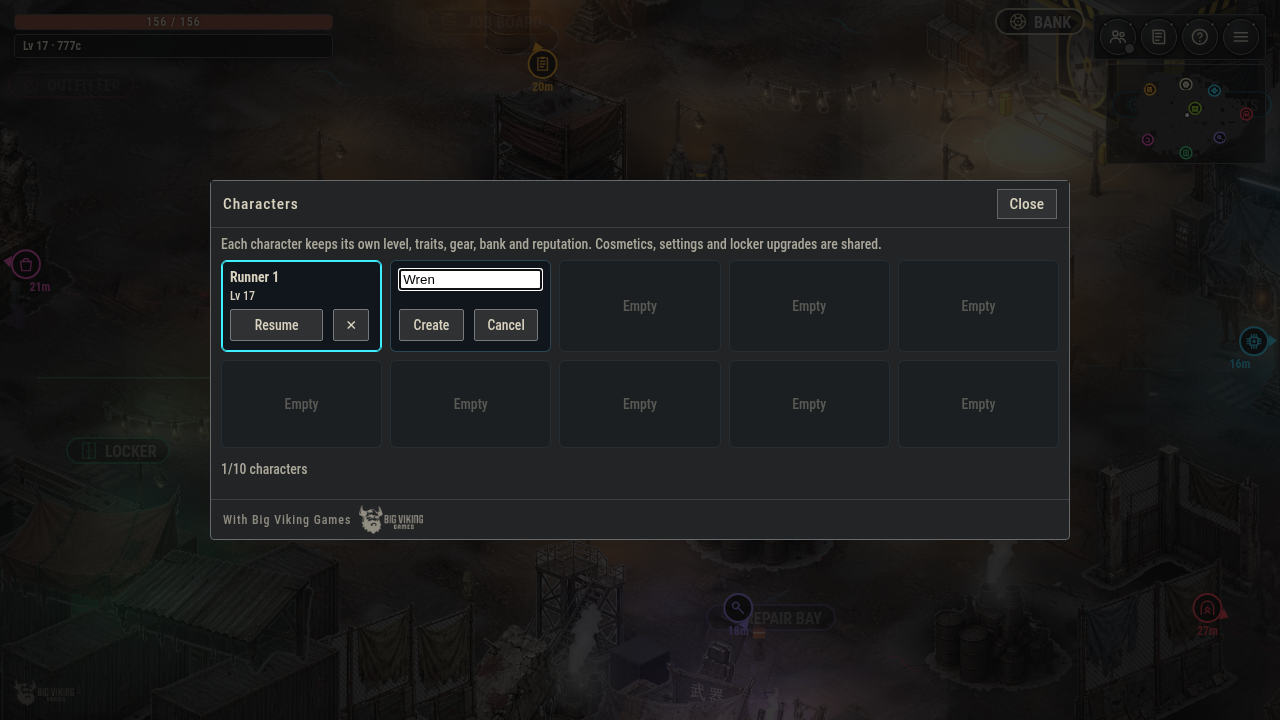
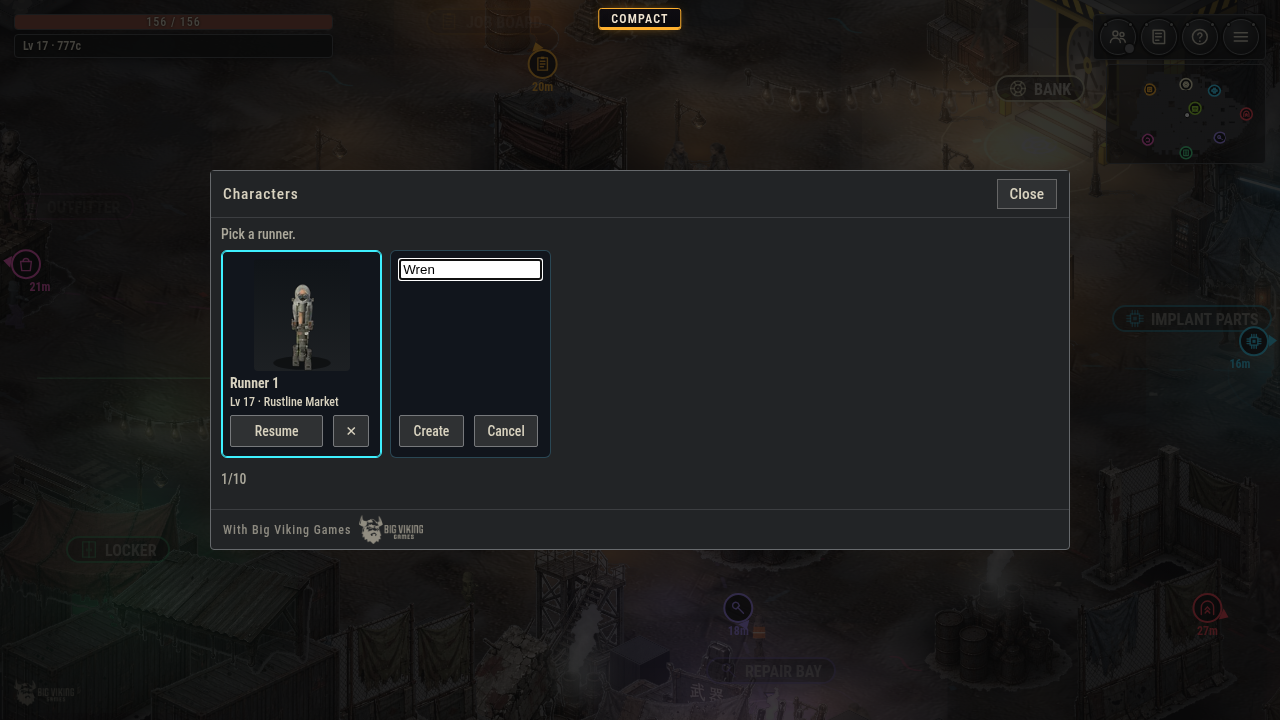
Character select: shown on boot (first-time players go straight to naming), live model previews with name/level/last town, + New, typed-name delete, menu 'Switch character' (town only; selector refuses in a run). tests/charsel.mjs; other tests opt out via wv_nocharsel

diff --git a/src/charselui.ts b/src/charselui.ts
@@ -1,31 +1,46 @@
-// Character select (modal 'chars'). Shown on load when the account has 2+ characters (or ?chars), and from Settings > Gameplay > Characters.
+// Character select (modal 'chars'). Shown on boot (first-time players go straight to naming), from the menu's Switch character (town only) and Settings > Gameplay > Characters.
 // 10 slots, free create, delete with a confirm step. Short labels; full details live in the tooltip (docs/UI.md).
-import { ensureRoster, createChar, selectChar, deleteChar, CHAR_LIMIT } from './chars';
+import { ensureRoster, createChar, selectChar, deleteChar, CHAR_LIMIT, charSave, nameFresh } from './chars';
+import { TOWN_INFO } from './towns';
+import { drawMini } from './wardrobeui';
 import { newSave, persist } from './state';
 import { TRAIT_BY_ID } from './traits';
 import { esc } from './esc';
 type UIx=any;
 export const CS={ confirmDel:'' as string, naming:false, msg:'' };
 const ago=(t:number)=>{ if(!t) return 'never played'; const m=Math.round((Date.now()-t)/60000); return m<1?'just now':m<60?m+' min ago':m<1440?Math.round(m/60)+' h ago':Math.round(m/1440)+' d ago'; };
-export function charsHtml(ui:UIx):string{ const r=ensureRoster(); let h=`<div class="csbody"><p class="mut csintro">Each character keeps its own level, traits, gear, bank and reputation. Cosmetics, settings and locker upgrades are shared.</p><div class="csgrid">`;
+const townName=(id?:string)=>((TOWN_INFO as any)[id&&(TOWN_INFO as any)[id]?id:'rustline']?.name||'Town') as string;
+const fresh=()=>{ const r=ensureRoster(); return r.chars.length===1&&!!r.chars[0].fresh; };
+export function charsHtml(ui:UIx):string{ const r=ensureRoster(); void ui;
+  if(fresh()) return `<div class="csbody csfirst"><p class="csintro">Name your runner. You start at level 1 with stock gear.</p><div class="cscard csnew"><input id="csname" maxlength="16" placeholder="Name" aria-label="Character name" value=""/><span class="csrow"><button class="btn" data-act="cs-create" data-tip="Start playing. Leave blank for Runner 1.">Start</button></span></div></div>`;
+  let h=`<div class="csbody"><p class="mut csintro" data-tip="Each character keeps its own level, traits, gear, bank and reputation. Cosmetics, settings and locker upgrades are shared.">Pick a runner.</p><div class="csgrid">`;
   for(let i=0;i<CHAR_LIMIT;i++){ const c=r.chars[i];
-    if(!c){ h+= i===r.chars.length ? (CS.naming?`<div class="cscard csnew"><input id="csname" maxlength="16" placeholder="Name" aria-label="Character name"/><span class="csrow"><button class="btn" data-act="cs-create">Create</button><button class="btn ghost" data-act="cs-cancel">Cancel</button></span></div>`
-      :`<button class="cscard csempty" data-act="cs-new" data-tip="<b>New character</b><br>Free. Starts with stock gear.">+ New</button>`) : `<div class="cscard csempty dim" aria-hidden="true">Empty</div>`; continue; }
+    if(!c){ if(i!==r.chars.length) continue; h+= CS.naming?`<div class="cscard csnew"><input id="csname" maxlength="16" placeholder="Name" aria-label="Character name"/><span class="csrow"><button class="btn" data-act="cs-create" data-tip="Free. Starts at level 1 with stock gear.">Create</button><button class="btn ghost" data-act="cs-cancel">Cancel</button></span></div>`
+      :`<button class="cscard csempty" data-act="cs-new" data-tip="<b>New character</b><br>Free. Starts at level 1 with stock gear.">+ New</button>`; continue; }
     const t1=c.trait1?TRAIT_BY_ID[c.trait1]:null, t2=c.trait2?TRAIT_BY_ID[c.trait2]:null; const act=c.id===r.active;
-    const tip=`<b>${esc(c.name)}</b><br>Level ${c.level}${t1?`<br>Trait: ${esc(t1.name)}`:''}${t2?`<br>Trait II: ${esc(t2.name)}`:''}<br>Last played ${ago(c.played)}`;
-    h+=`<div class="cscard${act?' on':''}" data-tip="${esc(tip)}"><b class="csn">${esc(c.name)}</b><small>Lv ${c.level}${t1?' · '+esc(t1.short):''}</small>`
-      +(CS.confirmDel===c.id?`<span class="csrow"><button class="btn danger" data-act="cs-delgo" data-id="${c.id}" data-tip="Deletes this character, its gear and bank. Cannot be undone.">Delete</button><button class="btn ghost" data-act="cs-delno">Keep</button></span>`
+    const tip=`<b>${esc(c.name)}</b><br>Level ${c.level} · ${esc(townName(c.town))}${t1?`<br>Trait: ${esc(t1.name)}`:''}${t2?`<br>Trait II: ${esc(t2.name)}`:''}<br>Last played ${ago(c.played)}`;
+    const del=CS.confirmDel===c.id;
+    h+=`<div class="cscard${act?' on':''}" data-tip="${esc(tip)}"><canvas class="csprev" data-id="${c.id}" width="96" height="112" aria-hidden="true"></canvas><b class="csn">${esc(c.name)}</b><small>Lv ${c.level} · ${esc(townName(c.town))}</small>`
+      +(del?`<input id="csdelname" class="csdelin" maxlength="16" placeholder="Type ${esc(c.name)}" aria-label="Type the name to confirm"/><span class="csrow"><button class="btn danger" data-act="cs-delgo" data-id="${c.id}" data-tip="Deletes this character, its gear and bank. Cannot be undone. Shared cosmetics stay.">Delete</button><button class="btn ghost" data-act="cs-delno">Keep</button></span>`
       :`<span class="csrow"><button class="btn" data-act="cs-play" data-id="${c.id}">${act?'Resume':'Play'}</button><button class="btn ghost csdel" data-act="cs-del" data-id="${c.id}" aria-label="Delete ${esc(c.name)}" data-tip="Delete ${esc(c.name)}">✕</button></span>`)+`</div>`; }
-  return h+`</div><p class="mut">${r.chars.length}/${CHAR_LIMIT} characters${CS.msg?' · '+esc(CS.msg):''}</p></div>`; }
+  return h+`</div><p class="mut">${r.chars.length}/${CHAR_LIMIT}${CS.msg?' · '+esc(CS.msg):''}</p></div>`; }
 export function charsClick(ui:UIx,el:HTMLElement,a:string):boolean{ const g=ui.g;
   const go=(id:string)=>{ persist(g.save); const r=selectChar(id); if(r.ok){ (window as any).__wvNoPersist=true; location.reload(); } };
   switch(a){
     case 'cs-new': CS.naming=true; CS.msg=''; ui.render(); setTimeout(()=>(document.getElementById('csname') as HTMLInputElement)?.focus(),0); return true;
     case 'cs-cancel': CS.naming=false; ui.render(); return true;
-    case 'cs-create': { const nm=(document.getElementById('csname') as HTMLInputElement)?.value||''; persist(g.save); const r=createChar(nm,newSave); CS.naming=false; if(!r.ok){ CS.msg=r.why; ui.render(); return true; } go(r.id); return true; }
+    case 'cs-create': { if(fresh()){ nameFresh((document.getElementById('csname') as HTMLInputElement)?.value||''); persist(g.save); ui.close(); return true; } const nm=(document.getElementById('csname') as HTMLInputElement)?.value||''; persist(g.save); const r=createChar(nm,newSave); CS.naming=false; if(!r.ok){ CS.msg=r.why; ui.render(); return true; } go(r.id); return true; }
     case 'cs-play': { const id=el.dataset.id!; if(id===ensureRoster().active){ ui.close(); return true; } go(id); return true; }
-    case 'cs-del': CS.confirmDel=el.dataset.id!; ui.render(); return true;
+    case 'cs-del': CS.confirmDel=el.dataset.id!; CS.msg=''; ui.render(); setTimeout(()=>(document.getElementById('csdelname') as HTMLInputElement)?.focus(),0); return true;
     case 'cs-delno': CS.confirmDel=''; ui.render(); return true;
-    case 'cs-delgo': { const id=el.dataset.id!; const wasActive=id===ensureRoster().active; if(!wasActive) persist(g.save); CS.confirmDel=''; const r=deleteChar(id); if(wasActive&&r.ok){ (window as any).__wvNoPersist=true; location.reload(); return true; } CS.msg='Character deleted.'; ui.render(); return true; }
+    case 'cs-delgo': { const id=el.dataset.id!; { const want=ensureRoster().chars.find(c=>c.id===id)?.name||''; const got=((document.getElementById('csdelname') as HTMLInputElement)?.value||'').trim(); if(got.toLowerCase()!==want.toLowerCase()){ CS.msg='Type the name to delete.'; ui.render(); return true; } } const wasActive=id===ensureRoster().active; if(!wasActive) persist(g.save); CS.confirmDel=''; const r=deleteChar(id); if(wasActive&&r.ok){ (window as any).__wvNoPersist=true; location.reload(); return true; } CS.msg='Character deleted.'; ui.render(); return true; }
   } return false; }
-export function showCharsOnLoad():boolean{ const r=ensureRoster(); let q=false; try{ q=new URLSearchParams(location.search).has('chars'); }catch{} return q||r.chars.length>1; }
+/** Boot: always show the selector (first-time players land in naming). Tests opt out with wv_nocharsel (tests/lib.mjs), keeping the old 2+ rule. */
+export function showCharsOnLoad():boolean{ const r=ensureRoster(); let q=false, off=false; try{ q=new URLSearchParams(location.search).has('chars'); off=!!localStorage.getItem('wv_nocharsel'); }catch{} return q||(off?r.chars.length>1:true); }
+/** Live previews: every canvas.csprev shows that character's own body and worn cosmetics, idling and slowly turning. One rAF at ~15 fps. */
+let prevRaf=0;
+export function charsAfter(_ui:UIx){ cancelAnimationFrame(prevRaf); const cvs=Array.from(document.querySelectorAll('#modal canvas.csprev')) as HTMLCanvasElement[]; if(!cvs.length) return;
+  const saves=new Map(cvs.map(cv=>[cv.dataset.id!, charSave(cv.dataset.id!)])); const t0=performance.now(); let last=-1;
+  const frame=()=>{ if(!cvs.some(c=>c.isConnected)) return; prevRaf=requestAnimationFrame(frame); const now=performance.now(); if(now-last<66) return; last=now; const t=(now-t0)/1000;
+    for(const cv of cvs){ const s=saves.get(cv.dataset.id!); drawMini(cv,s,t); } };
+  frame(); }

diff --git a/src/ui.ts b/src/ui.ts
@@ -47,7 +47,7 @@ import { travelHtml, guildHtml, townClick, TV, showVista } from './townui';
 import { bankHtml, bankClick, bankInput, BK } from './bankui';
 import { wardrobeHtml, wardrobeClick, wardrobeAfter, storePreviewsAfter } from './wardrobeui';
 import { storeHtml, storeClick } from './storeui';
-import { charsHtml, charsClick } from './charselui';
+import { charsHtml, charsClick, charsAfter } from './charselui';
 import { mailHtml, mailClick } from './mailui';
 import { traitsHtml, traitsClick, fixerTraitBlock, traitCheckpoint } from './traitui';
 import { storagePromptHtml } from './store';
@@ -151,7 +151,7 @@ export class UI {
   hideBanner(){ $('banner').classList.remove('show'); }
   showDialog(d:{title:string;body:string;options:{label:string;cb?:()=>void}[]}){ const el=$('dialog'); el.style.display='block'; el.innerHTML=`<h4>${esc(d.title)}</h4><div>${esc(d.body)}</div>`; d.options.forEach(o=>{ const b=document.createElement('button'); b.textContent=o.label; b.onclick=()=>{ el.style.display='none'; o.cb?.(); }; el.appendChild(b); }); }
   showDown(p:{broke:string|null;defib:boolean}){ const el=$('downpanel'); el.style.display='block'; el.innerHTML=`<b>DOWN</b><div class="mut" style="margin:6px 0">${p.broke?'Hardware damaged: <b>'+esc(p.broke)+'</b> (benefits and ability offline until a checkpoint).':'No hardware could be damaged.'} Repair bill: ${this.g.save.repairBill}c</div><button data-act="leave">Abandon instance and return to town now</button><button data-act="cp">Return to checkpoint (restores hardware, keeps repair bill)</button>${p.defib?'<button data-act="defib">Self-defib here (hardware stays broken)</button>':''}<div class="mut" style="margin-top:4px">Or press ${key('town')}: emergency exit (8 s).</div>`; }
-  open(m:string|null){ if(m==='vendor'||m==='fixer'||m==='contacts') void loadNpcUi(); if(m==='settings'&&this.modal!=='settings') settingsReset(); if(m==='locker'||m==='wardrobe'||m==='bank'||m==='travel'||m==='guild'||m==='vendor'||m==='gate'||m==='fixer'||m==='store'||m==='contacts'||m==='story'||m==='traits'||m==='mail'||m==='news'){ if(this.g.mode!=='town'){ return; } } if(m==='story'&&!journalOf(this.g.save).length) return; if(m==='locker'&&!this.draft) this.resetDraft(); if(m==='bank') BK.msg=''; if(m==='travel'||m==='guild') TV.msg=''; this.modal=m; this.clearConfirm(); this.render(); }
+  open(m:string|null){ if(m==='vendor'||m==='fixer'||m==='contacts') void loadNpcUi(); if(m==='settings'&&this.modal!=='settings') settingsReset(); if(m==='locker'||m==='wardrobe'||m==='bank'||m==='travel'||m==='guild'||m==='vendor'||m==='gate'||m==='fixer'||m==='store'||m==='contacts'||m==='story'||m==='traits'||m==='mail'||m==='news'||m==='chars'){ if(this.g.mode!=='town'){ return; } } if(m==='story'&&!journalOf(this.g.save).length) return; if(m==='locker'&&!this.draft) this.resetDraft(); if(m==='bank') BK.msg=''; if(m==='travel'||m==='guild') TV.msg=''; this.modal=m; this.clearConfirm(); this.render(); }
   /** Keeps every modal inside the VISIBLE viewport (visualViewport: browser zoom / on-screen keyboard) and shows the floating close button whenever the header's Close is not fully on screen. */
   fitModal(){ const vv=window.visualViewport, root=document.documentElement; const h=vv?vv.height:innerHeight; root.style.setProperty('--vvh',h+'px'); root.style.setProperty('--vvw',(vv?vv.width:innerWidth)+'px'); root.style.setProperty('--vvt',(vv?vv.offsetTop:0)+'px'); root.style.setProperty('--vvl',(vv?vv.offsetLeft:0)+'px');
     const x=document.getElementById('modalx'), b=document.querySelector<HTMLElement>('#modal .win>header [data-act=close]'); if(!x) return; const r=b?.getBoundingClientRect(); const vw=vv?vv.width:innerWidth; const off=!r||r.top<(vv?vv.offsetTop:0)-.5||r.left<-.5||r.bottom>h+(vv?vv.offsetTop:0)+.5||r.right>vw+(vv?vv.offsetLeft:0)+.5||r.width<2; x.classList.toggle('on',off); }
@@ -286,7 +286,7 @@ export class UI {
   render(){ const fk=this.modal==='locker'?this.focusKey():''; const m=$('modal'); if(!this.modal){ m.style.display='none'; m.innerHTML=''; return; } m.style.display='flex'; m.classList.toggle('helpmodal',this.modal==='help'); const g=this.g; this.recompute();
     const body=this.modal==='codex'?codexHtml(g.save):this.modal==='travel'?travelHtml(this):this.modal==='guild'?guildHtml(this):this.modal==='bank'?bankHtml(this):this.modal==='wardrobe'?wardrobeHtml(this):this.modal==='locker'?this.locker():this.modal==='vendor'?this.vendor():this.modal==='gate'?this.gate():this.modal==='fixer'?this.fixer():this.modal==='contacts'?this.contacts():this.modal==='store'?this.store():this.modal==='settings'?this.settings():this.modal==='dev'?this.dev():this.modal==='help'?helpHtml():this.modal==='summary'?this.summary():this.modal==='story'?this.storyPanel():this.modal==='build'?buildHtml(this):this.modal==='lootlog'?lootLogHtml(this):this.modal==='chars'?charsHtml(this):this.modal==='traits'?traitsHtml(this):this.modal==='mail'?mailHtml(this):this.modal==='speech'?(NPCUI?NPCUI.speechHtml(this):''):this.modal==='news'?CITYUI.html(this):'';
     const titles:Record<string,string>={lootlog:'Loot log',travel:'Reach Line: travel',guild:'Guild Counter: reclaimed chips',codex:'Abilities codex',bank:'Bank: storage & credits vault',wardrobe:'Dressing room',locker:'Body workspace & locker',vendor:'Vendor & repair',gate:'Dungeon select',contacts:'Contacts & contracts',fixer:'Fixer: Odalys Vane',store:'Outfitter (simulated purchases)',settings:'Settings',help:'Controls',dev:'DEV tools (prototype only)',summary:'Run summary',story:'Story: Odalys Vane',build:'Build inspector',chars:'Characters',traits:'Specialize',mail:'Mail: send to your characters',speech:'Talk',news:'City news'};
-    m.innerHTML=`<div class="win${this.modal==='settings'||this.modal==='help'?' settingswin helpwin':''}${this.modal==='locker'?' lockerwin':''}${this.modal==='story'?' storywin':''}${this.modal==='build'?' buildwin':''}${this.modal==='chars'?' charswin':''}${this.modal==='traits'?' traitswin':''}" role="dialog" aria-modal="true" aria-label="${titles[this.modal]||''}"><header><span>${titles[this.modal]||''}</span><span><button data-act="close">Close</button></span></header><div class="body">${body}</div><footer class="bvgf">${BVG}</footer></div><button id="modalx" type="button" data-act="close" aria-label="Close window" title="Close (Esc)">✕</button>`; void g; this.fitModal(); if(this.modal==='settings') settingsAfterRender(this); this.decorateTiles(); this.decorateChips(); this.bindTips(); this.bindChipDnD(); this.fitText(); if(this.modal==='wardrobe') wardrobeAfter(this); if(this.modal==='store') storePreviewsAfter(this); if(this.modal==='locker'){ this.bindSwapDnD(); this.afterLocker(fk); } if(this.modal==='story') this.storyAfter(); }
+    m.innerHTML=`<div class="win${this.modal==='settings'||this.modal==='help'?' settingswin helpwin':''}${this.modal==='locker'?' lockerwin':''}${this.modal==='story'?' storywin':''}${this.modal==='build'?' buildwin':''}${this.modal==='chars'?' charswin':''}${this.modal==='traits'?' traitswin':''}" role="dialog" aria-modal="true" aria-label="${titles[this.modal]||''}"><header><span>${titles[this.modal]||''}</span><span><button data-act="close">Close</button></span></header><div class="body">${body}</div><footer class="bvgf">${BVG}</footer></div><button id="modalx" type="button" data-act="close" aria-label="Close window" title="Close (Esc)">✕</button>`; void g; this.fitModal(); if(this.modal==='settings') settingsAfterRender(this); this.decorateTiles(); this.decorateChips(); this.bindTips(); this.bindChipDnD(); this.fitText(); if(this.modal==='wardrobe') wardrobeAfter(this); if(this.modal==='store') storePreviewsAfter(this); if(this.modal==='chars') charsAfter(this); if(this.modal==='locker'){ this.bindSwapDnD(); this.afterLocker(fk); } if(this.modal==='story') this.storyAfter(); }
   decorateTiles(){ document.querySelectorAll<HTMLElement>('#modal [data-def]').forEach(b=>{ const ic=b.querySelector('.ticon'); if(!ic||!b.dataset.def) return; markRarity(b,ITEM_BY_ID[b.dataset.def]?.rarity); try{ const sp=specOf({id:0,kind:'item',inst:{def:b.dataset.def},amount:1}); const src=iconCanvas(sp); const cv=document.createElement('canvas'); cv.width=src.width; cv.height=src.height; cv.getContext('2d')!.drawImage(src,0,0); ic.appendChild(cv); }catch{} }); }
   decorateChips(){ document.querySelectorAll<HTMLElement>('#modal [data-chip]').forEach(b=>{ const ic=b.querySelector('.ticon'); const id=b.dataset.chip; if(!ic||!id||!(CHIPS as any)[id]) return; markRarity(b,CHIPS[id as ChipId].rarity); try{ const src=iconCanvas(specOf({id:0,kind:'chip',chip:id,amount:1})); const cv=document.createElement('canvas'); cv.width=src.width; cv.height=src.height; cv.getContext('2d')!.drawImage(src,0,0); ic.appendChild(cv); }catch{} }); }
   /** hover (mouse) or long-press (touch) tooltips for any element carrying data-tip html */

diff --git a/src/chars.ts b/src/chars.ts
@@ -7,7 +7,7 @@ export const CHAR_LIMIT=10;
 export const ROSTER_KEY='wv_roster_v1';
 export const LEGACY_KEY='arpg-proto-save-v1';
 export const CHAR_KEY=(id:string)=>'wv_char_'+id;
-export interface CharSummary { id:string; name:string; level:number; created:number; played:number; trait1?:string|null; trait2?:string|null }
+export interface CharSummary { id:string; name:string; level:number; created:number; played:number; trait1?:string|null; trait2?:string|null; /** last town id (src/towns.ts) */ town?:string; /** auto-made on a first boot with no save: the selector opens straight into naming it */ fresh?:boolean }
 export interface Account { settings?:any; purchases?:{ lockerBlocks:number; skins:string[] }; store?:any; cosOwned?:Record<string,number>; cosSeen?:Record<string,number>; cosOutfits?:any[]; /** account mailbox (src/mail.ts) */ mail?:any[] }
 export interface Roster { v:1; active:string; chars:CharSummary[]; account:Account; nextN:number }
 type KV={ get(k:string):string|null; set(k:string,v:string):void; del(k:string):void };
@@ -20,7 +20,7 @@ export function ensureRoster(kv:KV=lsKV):Roster{ let r=readRoster(kv); if(r&&r.c
   const id=newId(); const legacy=kv.get(LEGACY_KEY); let level=1; let acct:Account={};
   { const nm=kv.get('wv_name'); if(nm) kv.set('wv_name_'+id,nm); }
   if(legacy){ kv.set(CHAR_KEY(id),legacy); try{ const s=JSON.parse(legacy); level=s.level||1; acct=extractAccount(s); }catch{} }
-  r={ v:1, active:id, chars:[{ id, name:'Runner 1', level, created:Date.now(), played:Date.now() }], account:acct, nextN:2 }; writeRoster(r,kv); return r; }
+  r={ v:1, active:id, chars:[{ id, name:'Runner 1', level, created:Date.now(), played:Date.now(), ...(legacy?{}:{ fresh:true }) }], account:acct, nextN:2 }; writeRoster(r,kv); return r; }
 export function extractAccount(s:any):Account{ return { settings:s.settings, purchases:s.purchases?{ lockerBlocks:s.purchases.lockerBlocks||0, skins:[...(s.purchases.skins||[])] }:undefined, store:s.store, cosOwned:s.cosmetics?.owned, cosSeen:s.cosmetics?.seen, cosOutfits:s.cosmetics?.outfits }; }
 /** Overlay account-wide data onto a character save (load path). Purchases are merged (max / union) so nothing bought is ever lost. */
 export function applyAccount(s:any,a:Account){ if(!a) return s; if(a.settings) s.settings={ ...s.settings, ...a.settings };
@@ -31,7 +31,7 @@ export function applyAccount(s:any,a:Account){ if(!a) return s; if(a.settings) s
 /** Read the active character's raw save JSON (falls back to the legacy mirror). */
 export function activeRaw(kv:KV=lsKV):string|null{ const r=ensureRoster(kv); return kv.get(LEGACY_KEY)??kv.get(CHAR_KEY(r.active)); }
 /** Persist path: character data to its own key + legacy mirror; account fields + summary to the roster. */
-export function saveActive(json:string,s:any,kv:KV=lsKV){ const r=ensureRoster(kv); kv.set(CHAR_KEY(r.active),json); kv.set(LEGACY_KEY,json); r.account={ ...r.account, ...extractAccount(s) }; const c=r.chars.find(x=>x.id===r.active); if(c){ c.level=s.level||1; c.played=Date.now(); c.trait1=s.traits?.l10?.id??null; c.trait2=s.traits?.l20?.id??null; } writeRoster(r,kv); }
+export function saveActive(json:string,s:any,kv:KV=lsKV){ const r=ensureRoster(kv); kv.set(CHAR_KEY(r.active),json); kv.set(LEGACY_KEY,json); r.account={ ...r.account, ...extractAccount(s) }; const c=r.chars.find(x=>x.id===r.active); if(c){ c.level=s.level||1; c.played=Date.now(); c.trait1=s.traits?.l10?.id??null; c.trait2=s.traits?.l20?.id??null; c.town=s.town; } writeRoster(r,kv); }
 export type CharResult={ ok:true; id:string }|{ ok:false; why:string };
 /** Free character creation, capped at CHAR_LIMIT. The new save is built by the caller's factory (state.newSave) so it gets the stock loadout. */
 export function createChar(name:string,make:()=>any,kv:KV=lsKV):CharResult{ const r=ensureRoster(kv); if(r.chars.length>=CHAR_LIMIT) return { ok:false, why:`Character limit reached (${CHAR_LIMIT}). Delete one to make room.` };
@@ -45,6 +45,9 @@ export function deleteChar(id:string,kv:KV=lsKV):CharResult{ const r=ensureRoste
   if(!r.chars.length){ kv.del(LEGACY_KEY); kv.del(ROSTER_KEY); const r2=ensureRoster(kv); r2.account=r.account; writeRoster(r2,kv); return { ok:true, id:r2.active }; }
   if(r.active===id){ writeRoster(r,kv); return selectChar(r.chars[0].id,kv); } writeRoster(r,kv); return { ok:true, id:r.active }; }
 /** Raw save of any character (transfers / selector previews). */
+export function charSave(id:string,kv:KV=lsKV):any{ try{ return JSON.parse(kv.get(CHAR_KEY(id))||'null'); }catch{ return null; } }
+/** Name the auto-made first character (first-time player creation). */
+export function nameFresh(name:string,kv:KV=lsKV):boolean{ const r=ensureRoster(kv); const c=r.chars.find(x=>x.id===r.active); if(!c?.fresh) return false; const nm=(name||'').replace(/[<>"&]/g,'').trim().slice(0,16); if(nm) c.name=nm; delete c.fresh; writeRoster(r,kv); return true; }
 /** Multiplayer identity is per character: party display name defaults to the character name; a custom party name is remembered per character. */
 export const partyName=(kv:KV=lsKV)=>{ try{ const r=ensureRoster(kv); return kv.get('wv_name_'+r.active)||(r.chars[0]?.id===r.active?kv.get('wv_name'):null)||r.chars.find(c=>c.id===r.active)?.name||'Guest'; }catch{ return 'Guest'; } };
 export const setPartyName=(n:string,kv:KV=lsKV)=>{ const r=ensureRoster(kv); kv.set('wv_name_'+r.active,n); };

diff --git a/src/wardrobeui.ts b/src/wardrobeui.ts
@@ -241,6 +241,19 @@ export function storePreviewsAfter(ui: UIx) {
     miniRaf = requestAnimationFrame(frame); };
   frame();
 }
+/** One character mini preview (character select): own save's body + worn look. Same renderer as the Outfitter minis. */
+export function drawMini(cv: HTMLCanvasElement, s: any, t: number) {
+  const rend = (window as any).__rend; if (rend?.anim && animSrc !== rend.anim.loaded) { anim = new PlayerAnimator(rend.anim.loaded); animSrc = rend.anim.loaded; }
+  const ctx = cv.getContext('2d')!, W = cv.width, H = cv.height, fx = W / 2, fy = H - 8, u = H / 70;
+  const bg = ctx.createLinearGradient(0, 0, 0, H); bg.addColorStop(0, '#101418'); bg.addColorStop(1, '#1d2023'); ctx.fillStyle = bg; ctx.fillRect(0, 0, W, H);
+  ctx.fillStyle = 'rgba(0,0,0,.45)'; ctx.beginPath(); ctx.ellipse(fx, fy, W * .3, W * .07, 0, 0, 7); ctx.fill(); if (!s) return;
+  const look = wornLook(s), list = COS_SLOTS.map(sl => look[sl] ? COS_BY_ID[look[sl]!] : null).filter(Boolean) as CosDef[];
+  const dir = (Math.floor(t / 1.6) % 8) as Dir8, k = { c: ctx, x: fx, y: fy, u, t, moving: false, face: FACE[dir], id: 'cs', noModel: !anim };
+  drawCosmetics(k, list, 'back'); let drew = false;
+  if (anim) { try { anim.setBody(applyCosmeticVariants(bodyOf({ ...s, cosmetics: { owned: {}, equipped: {} } } as any, null), { cosmetics: { owned: Object.fromEntries(list.map(x => [x.id, 1])), equipped: look } } as any), list.map(x => x.id)); anim.anim = 'idle'; anim.t = t; anim.dir = dir; drew = anim.draw(ctx, fx, fy, u); } catch { drew = false; } }
+  if (!drew) { ctx.fillStyle = '#5c5f5a'; ctx.beginPath(); ctx.ellipse(fx, fy - 28 * u, 8.5 * u, 10 * u, 0, 0, 7); ctx.fill(); ctx.fillStyle = '#b8a48c'; ctx.beginPath(); ctx.ellipse(fx, fy - 41 * u, 5.2 * u, 5.8 * u, 0, 0, 7); ctx.fill(); }
+  drawCosmetics(k, list, 'front');
+}
 /** test / console hook */
 if (typeof window !== 'undefined') (window as any).__dr = { WD, previewLook: () => previewLook((window as any).__game.save), wornLook: () => wornLook((window as any).__game.save), diff: () => lookDiff((window as any).__game.save), activeOrder };
 const reducedFx = () => document.body.classList.contains('reducefx');

diff --git a/src/settingsui.ts b/src/settingsui.ts
@@ -78,7 +78,7 @@ export function settingsHtml(ui:UIx):string{
   else if(tab==='story') c=storyHtml(ui);
   else c=aboutHtml(ui);
   const tabs=TABS.map(([id,n])=>`<button type="button" class="stab${id===tab?' on':''}" role="tab" id="stab-${id}" aria-selected="${id===tab}" aria-controls="spanel" tabindex="${id===tab?0:-1}" data-act="s-tab" data-tab="${id}">${esc(n)}</button>`).join('');
-  return `<div class="stabs" role="tablist" aria-orientation="vertical" aria-label="Settings sections">${tabs}</div><div class="sbody" id="spanel" role="tabpanel" aria-labelledby="stab-${tab}" tabindex="-1">${c}</div>`;
+  return `<div class="stabs" role="tablist" aria-orientation="vertical" aria-label="Settings sections">${tabs}<button type="button" class="stab sswitch" data-act="s-chars"${g.mode==='town'?' data-tip="Pick, create or delete a character."':' disabled data-tip="Only in town. Finish or leave the run first."'}>Switch character</button></div><div class="sbody" id="spanel" role="tabpanel" aria-labelledby="stab-${tab}" tabindex="-1">${c}</div>`;
 }
 
 function confirmBox(id:string,msg:string,go:string,label:string,danger=true){ if(S.confirm!==id) return ''; return `<div class="sconf${danger?' danger':''}" role="alertdialog" aria-label="Confirm"><p>${msg}</p><span class="sbtns"><button type="button" class="btn ${danger?'dng':'primary'}" data-act="${go}">${label}</button><button type="button" class="btn" data-act="s-cancel">Cancel</button></span></div>`; }

diff --git a/src/style.css b/src/style.css
@@ -662,6 +662,12 @@ mark.shint{ background:transparent; color:var(--accent,#ffae2b); border-bottom:1
 .cscard.on{ border-color:#3ef0ff; box-shadow:0 0 0 1px #3ef0ff inset; }
 .cscard .csn,.cscard small{ white-space:nowrap; overflow:hidden; text-overflow:ellipsis; }
 .cscard.csempty{ align-items:center; justify-content:center; cursor:pointer; opacity:.85; }
+.cscard .csprev{ width:96px; height:112px; align-self:center; border-radius:4px; }
+.cscard.csempty{ font-size:1.1em; font-weight:700; color:#3ef0ff; }
+.csdelin{ width:100%; min-width:0; }
+.csfirst{ max-width:340px; margin:0 auto; }
+.stab.sswitch{ margin-top:12px; border-top:1px solid rgba(255,255,255,.12); }
+.stab.sswitch[disabled]{ opacity:.45; cursor:not-allowed; }
 .cscard.dim{ opacity:.3; cursor:default; }
 .cscard .csrow{ display:flex; gap:6px; margin-top:auto; }
 .cscard .csrow .btn{ flex:1; min-height:32px; }

diff --git a/docs/CHARACTERS.md b/docs/CHARACTERS.md
@@ -20,12 +20,14 @@ First boot after the update: no roster exists, so the existing save JSON is copi
 
 ## Selector
 
-- Shown on load when the account has **2+ characters** (with one character there is nothing to choose, so the game loads straight in), or with `?chars` in the URL.
-- Always reachable from **Settings > Gameplay > Characters**.
-- 10 slots; `+ New` asks for a name (16 chars max) and starts a fresh character at **level 1** (`PROGRESSION.startLevel`) with the Standard Issue stock kit (grey, level 1, every slot) and starting credits/chips. The level 10 trait is earned in play. The Reclamation Annex (Lv 1–10) is the first dungeon; see *Early game (levels 1–10)* below.
-- Existing saves are not touched: the character migrated from the legacy single save keeps its stored level, gear and traits.
-- Delete needs a second click on a red **Delete** (Keep cancels). Deleting the active character switches to the next one; deleting the last one leaves a fresh character 1. Account purchases are never deleted.
-- Switching persists the current character and reloads the page (all systems boot cleanly on the new save).
+- **Shown on every boot** (in town). A first-time player (no save, no roster) goes straight to naming their runner (level 1, stock gear); closing it keeps "Runner 1" and asks again next boot.
+- Each card: live model preview (own body + worn cosmetics, idle, slowly turning, one rAF at ~15 fps), name, level, last town; details in the tooltip.
+- `+ New` asks for a name (16 chars max) and starts a fresh character at **level 1** (`PROGRESSION.startLevel`) with the Standard Issue stock kit. Hidden at the 10-character cap.
+- Delete asks you to **type the character's name**, then click the red **Delete** (Keep cancels). Deleting the active character switches to the next one; deleting the last one leaves a fresh character (naming again). Account purchases are never deleted.
+- In-game menu (Settings) has **Switch character** under the tabs: town only (disabled with a tooltip in a run; the selector also refuses to open in a run). Also Settings > Gameplay > Characters.
+- Switching persists the current character and reloads the page.
+- Tests: `tests/charsel.mjs` (boot, first-time naming, create/switch/typed delete, cap, menu). Every other test opts out of the boot selector via `wv_nocharsel` (tests/lib.mjs).
+- Existing saves are not touched: the migrated character keeps its stored level, gear and traits.
 
 ## Multiplayer identity
 
